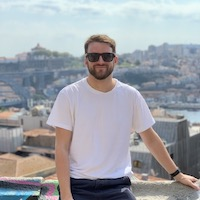
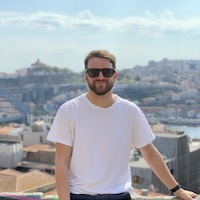
Further optimisations 🧼

diff --git a/_includes/social.html b/_includes/social.html
@@ -1,15 +1,15 @@
 <h2><span aria-hidden='true'>☕</span>&nbsp;Social</h2>
 <div class='social'>
-  <a href='https://www.instagram.com/01taylop/' title='Visit Patrick&apos;s Instagram Page' target='_blank' rel='noopener noreferrer'>
+  <a href='https://www.instagram.com/01taylop/' title="Instagram" aria-label='Visit Patrick&apos;s Instagram Page' target='_blank' rel='noopener noreferrer'>
     <i class='icon-instagram'></i>
   </a>
-  <a href='https://twitter.com/patchfalcon' title='Visit Patrick&apos;s Twitter Profile' target='_blank' rel='noopener noreferrer'>
+  <a href='https://twitter.com/patchfalcon' title="Twitter" aria-label='Visit Patrick&apos;s Twitter Profile' target='_blank' rel='noopener noreferrer'>
     <i class='icon-twitter'></i>
   </a>
-  <a href='https://www.linkedin.com/in/patrick-taylor1/' title='Visit Patrick&apos;s LinkedIn Profile' target='_blank' rel='noopener noreferrer'>
+  <a href='https://www.linkedin.com/in/patrick-taylor1/' title="LinkedIn" aria-label='Visit Patrick&apos;s LinkedIn Profile' target='_blank' rel='noopener noreferrer'>
     <i class='icon-linkedin'></i>
   </a>
-  <a href='https://stackoverflow.com/users/1359306/patrick' title='Visit Patrick&apos;s Stack Overflow Profile' target='_blank' rel='noopener noreferrer'>
+  <a href='https://stackoverflow.com/users/1359306/patrick' title="Stack Overflow" aria-label='Visit Patrick&apos;s Stack Overflow Profile' target='_blank' rel='noopener noreferrer'>
     <i class='icon-stackoverflow'></i>
   </a>
 </div>

diff --git a/_includes/about.html b/_includes/about.html
@@ -1,5 +1,9 @@
 <h2><span aria-hidden='true'>👨🏻💻</span>&nbsp;About</h2>
-<img src='{{ site.baseurl }}/assets/profile.jpg' srcset='{{ site.baseurl }}/assets/profile@2x.jpg 2x' alt='Profile picture of Patrick Taylor'/>
+<picture>
+  <source srcset='{{ site.baseurl }}/assets/profile.webp' type='image/webp'>
+  <source srcset='{{ site.baseurl }}/assets/profile@2x.jpg 2x' type='image/jpg'>
+  <img src='{{ site.baseurl }}/assets/profile.jpg' alt='Profile picture of Patrick Taylor'/>
+</picture>
 <p>Using the best practised web standards and latest technologies, I create beautiful, professional websites with intuitive and rich user experiences.</p>
 <p>My current goal is to contribute more to the open-source community.</p>
 <p>I have a BSc in Multimedia Technology and Design and an MSc in Mobile Application Design; both from the University of Kent.</p>

diff --git a/_includes/work.html b/_includes/work.html
@@ -1,3 +1,7 @@
 <h2><span aria-hidden='true'>✈</span>&nbsp;Work</h2>
 <p>I enjoy travelling, exploring and technology; and I combine those passions working on exciting projects for the travel company Expedia.</p>
-<img src='{{ site.baseurl }}/assets/expedia.png' srcset='{{ site.baseurl }}/assets/expedia@2x.png 2x' alt='Expedia Logo'/>
+<picture>
+  <source srcset='{{ site.baseurl }}/assets/expedia.webp' type='image/webp'>
+  <source srcset='{{ site.baseurl }}/assets/expedia@2x.png 2x' type='image/png'>
+  <img src='{{ site.baseurl }}/assets/expedia.png' alt='Expedia Logo'/>
+</picture>

diff --git a/_layouts/default.html b/_layouts/default.html
@@ -2,7 +2,7 @@
 <html lang="en">
 <head>
   <!-- Global site tag (gtag.js) - Google Analytics -->
-  <script async src="https://www.googletagmanager.com/gtag/js?id=UA-51419280-1"></script>
+  <script async src="https://www.googletagmanager.com/gtag/js?id=UA-51419280-1" rel="preconnect"></script>
   <script>
     window.dataLayer = window.dataLayer || [];
     function gtag(){dataLayer.push(arguments);}

diff --git a/_sass/base/_grid-style.scss b/_sass/base/_grid-style.scss
@@ -70,6 +70,7 @@
       grid-area: work;
       img {
         @include opacity(.8);
+        max-width: 160px;
         margin-top: 10px;
       }
     }
@@ -83,6 +84,8 @@
       grid-area: about;
       img {
         display: block;
+        max-width: 200px;
+        max-height: 200px;
         margin: 0 auto 10px;
         float: none;
         border-radius: 50%;
